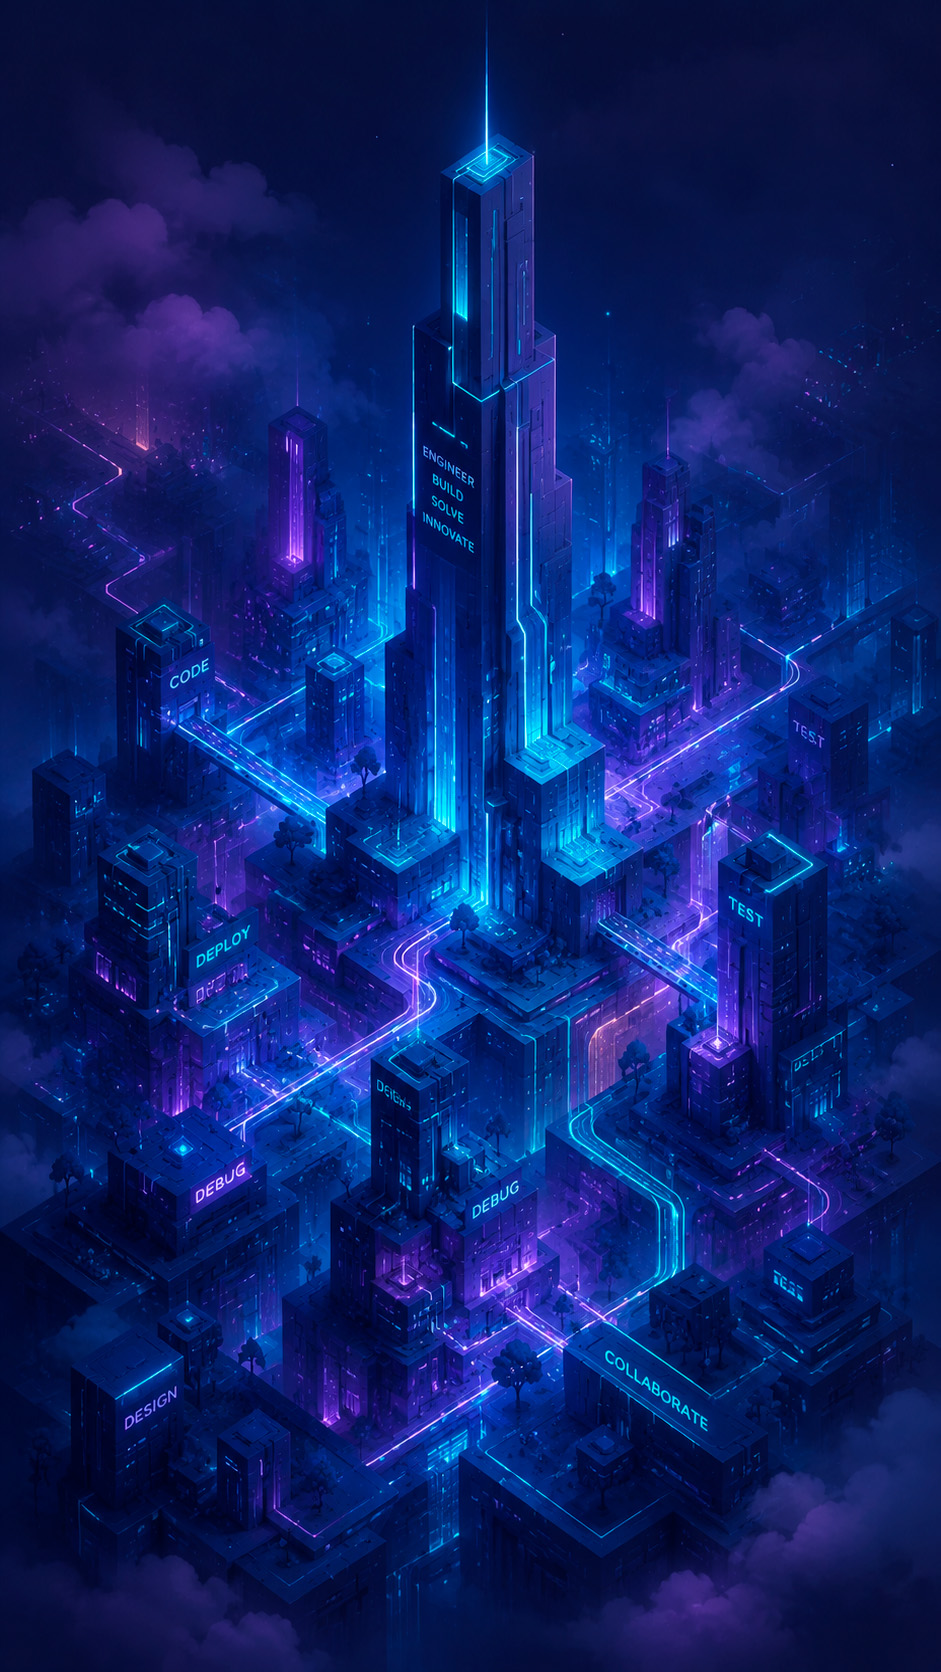
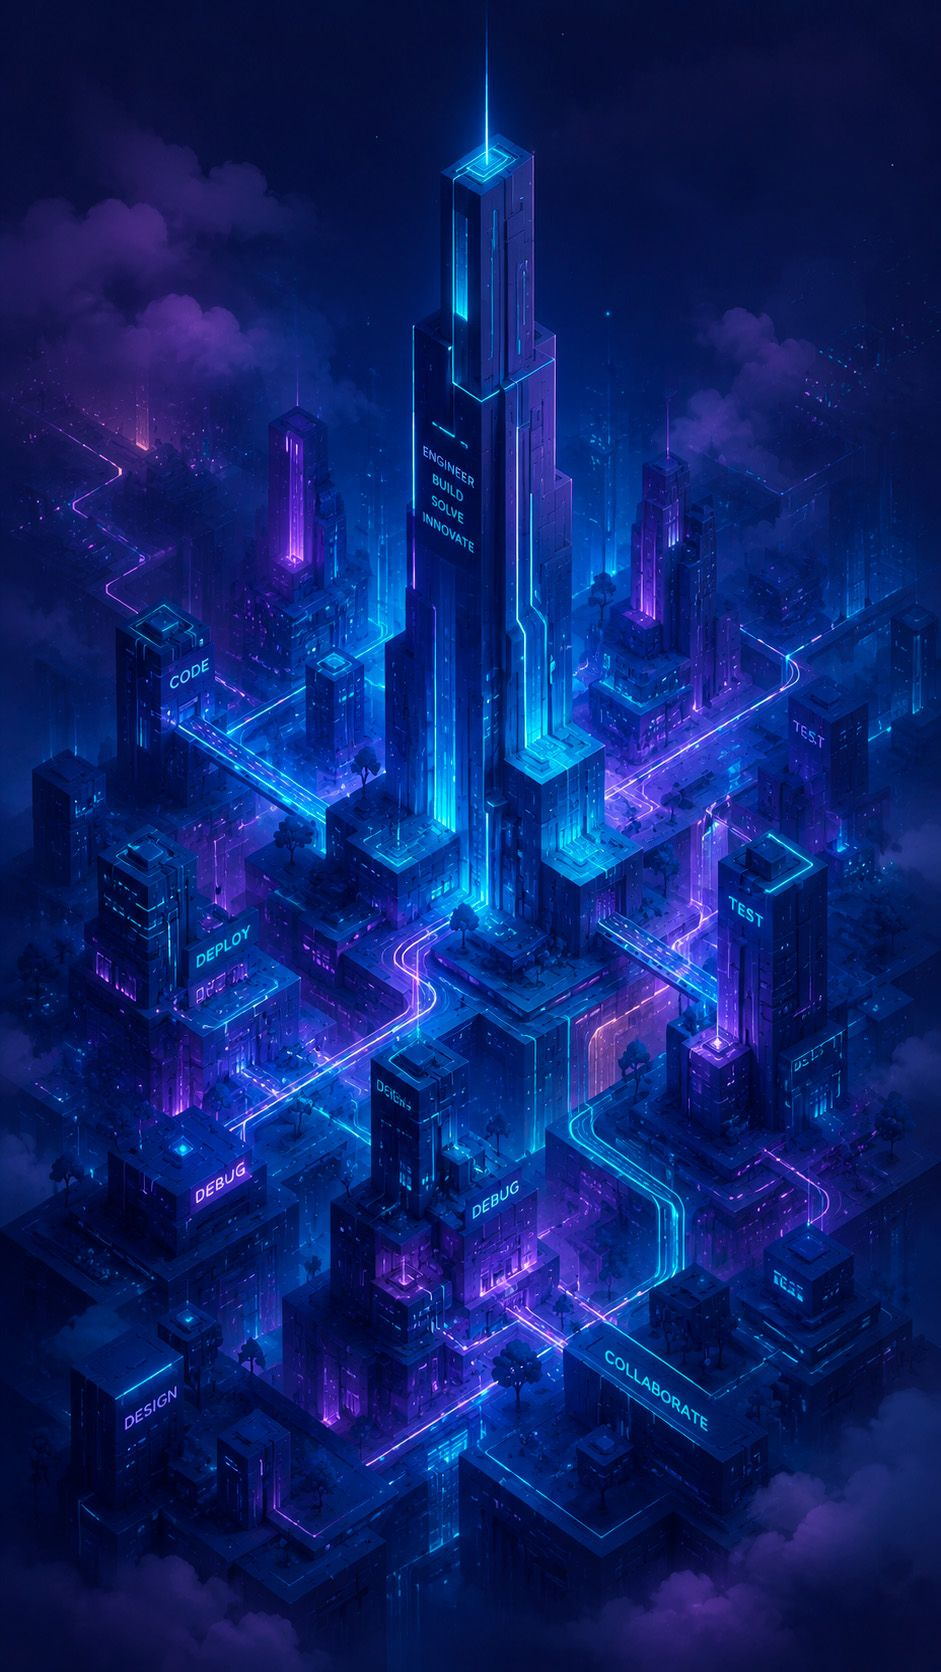
perf: compress world/journey backgrounds to jpg q80, fix code refs from .png to .jpg

diff --git a/src/world/world_renderer.tsx b/src/world/world_renderer.tsx
@@ -55,7 +55,7 @@ export const WorldRenderer: React.FC<WorldRendererProps> = ({
   );
   const cameraRef = useRef(createCamera(worldState.camera));
   const animFrameRef = useRef<number>(0);
-  // imgError: if journey.png doesn't exist yet, fall back to the
+  // imgError: if journey.jpg doesn't exist yet, fall back to the
   // theme gradient so the screen is never blank waiting for art.
   const [imgError, setImgError] = useState(false);
 
@@ -209,7 +209,7 @@ export const WorldRenderer: React.FC<WorldRendererProps> = ({
   return (
     <div style={{ position: 'relative', width: '100%', height: '100%', overflow: 'hidden', ...style }}>
       {/* 1. WorldImage layer — artist art, or gradient fallback until it exists.
-          imgError guard: if journey.png is not placed yet the <img> fires onError
+          imgError guard: if journey.jpg is not placed yet the <img> fires onError
           and we fall back to the theme gradient rather than showing a broken image. */}
       {art.worldImageUrl && !imgError ? (
         <img

diff --git a/src/professions/software_engineer/world_art.ts b/src/professions/software_engineer/world_art.ts
@@ -1,7 +1,7 @@
 // src/professions/software_engineer/world_art.ts
 //
 // BACKGROUND IMAGE — where to place the file:
-//   public/art/software_engineer/journey.png
+//   public/art/software_engineer/journey.jpg
 //
 // WorldRenderer loads it as the full-bleed background of the Journey tab.
 // Recommended size: 1080×2340px (full-screen portrait, any aspect works).
@@ -12,5 +12,5 @@ import { registerWorldArt } from '@/core/world/world_art_contract';
 
 registerWorldArt({
   professionId: 'software_engineer',
-  worldImageUrl: '/art/software_engineer/journey.png',
+  worldImageUrl: '/art/software_engineer/journey.jpg',
 });

diff --git a/src/screens/JourneyScreen/components/FinalCinematicScreen/index.tsx b/src/screens/JourneyScreen/components/FinalCinematicScreen/index.tsx
@@ -371,7 +371,7 @@ export function FinalCinematicScreen({ professionId, chapters, onComplete }: Fin
     <div
       className="fc-root"
       style={{
-        background: `url('/art/${professionId}/world.png') center center / cover no-repeat, #05080f`,
+        background: `url('/art/${professionId}/world.jpg') center center / cover no-repeat, #05080f`,
       }}
     >
       {phase === 'hud-fade' && (

diff --git a/src/screens/WorldMapScreen/index.tsx b/src/screens/WorldMapScreen/index.tsx
@@ -39,7 +39,7 @@ export function WorldMapScreen({ style, onChapterSelect }: WorldMapScreenProps) 
     <div className="world-map-screen" style={style}>
       <img
         className="world-map-bg"
-        src={`/art/${professionId}/world.png`}
+        src={`/art/${professionId}/world.jpg`}
         alt=""
         onError={(e) => { e.currentTarget.style.display = 'none'; }}
       />

diff --git a/src/professions/software_engineer/world/art.ts b/src/professions/software_engineer/world/art.ts
@@ -2,6 +2,6 @@ import { registerWorldArt } from '@/core/world/world_art_contract';
 
 registerWorldArt({
   professionId: 'software_engineer',
-  worldImageUrl: '/art/software_engineer/journey.png',
+  worldImageUrl: '/art/software_engineer/journey.jpg',
   worldImageSize: { width: 1080, height: 2340 },
 });

diff --git a/PROJECT_STATUS.md b/PROJECT_STATUS.md
@@ -2937,3 +2937,19 @@ Rebuilt per Serj's explicit spec — 7 containers, CSS Grid:
 
 **Проверено:** `npx tsc --noEmit` — только предсуществующая ошибка `notification_service.ts:190` (unused `chapterId`, не связана с этим фиксом). `npx vite build` — чисто.
 **Не проверено вживую на телефоне.**
+
+---
+
+### 2026-07-12 — Claude (оптимизация фонов world.jpg / journey.jpg)
+
+Serj заменил `world.png`/`journey.png` (PNG, 887×1774 и 941×1672, ~2.1 МБ каждый) на новые `world.jpg`/`journey.jpg`, сохранённые почти без сжатия (world.jpg — 1074 КБ, journey.jpg — 464 КБ на 941×1672). Код при этом всё ещё ссылался на старые `.png`-пути — новые файлы не были подключены нигде.
+
+Сделано:
+- Пересжаты `world.jpg` (1074 КБ → **199 КБ**) и `journey.jpg` (464 КБ → **210 КБ**) через Pillow, quality=80, optimize=True — на глаз разница на фоновом изображении (затемнено градиентами в CSS сверху) не заметна.
+- Удалены старые `world.png` / `journey.png`.
+- Обновлены все ссылки `.png` → `.jpg` в коде: `src/world/world_renderer.tsx`, `src/professions/software_engineer/world/art.ts`, `src/professions/software_engineer/world_art.ts`, `src/screens/WorldMapScreen/index.tsx`, `src/screens/JourneyScreen/components/FinalCinematicScreen/index.tsx`.
+
+**Файлы:** `public/art/software_engineer/world.jpg`, `public/art/software_engineer/journey.jpg` (пересжаты), `public/art/software_engineer/world.png` (удалён), `public/art/software_engineer/journey.png` (удалён), `src/world/world_renderer.tsx`, `src/professions/software_engineer/world/art.ts`, `src/professions/software_engineer/world_art.ts`, `src/screens/WorldMapScreen/index.tsx`, `src/screens/JourneyScreen/components/FinalCinematicScreen/index.tsx`, `PROJECT_STATUS.md`
+
+**Проверено:** `npx tsc --noEmit` — только предсуществующая ошибка `notification_service.ts:190` (не связана). `npx vite build` — чисто.
+**Не проверено вживую на телефоне.** Проверить: World экран и Journey — фоны должны отображаться (не битая картинка), визуально без заметной потери качества.
